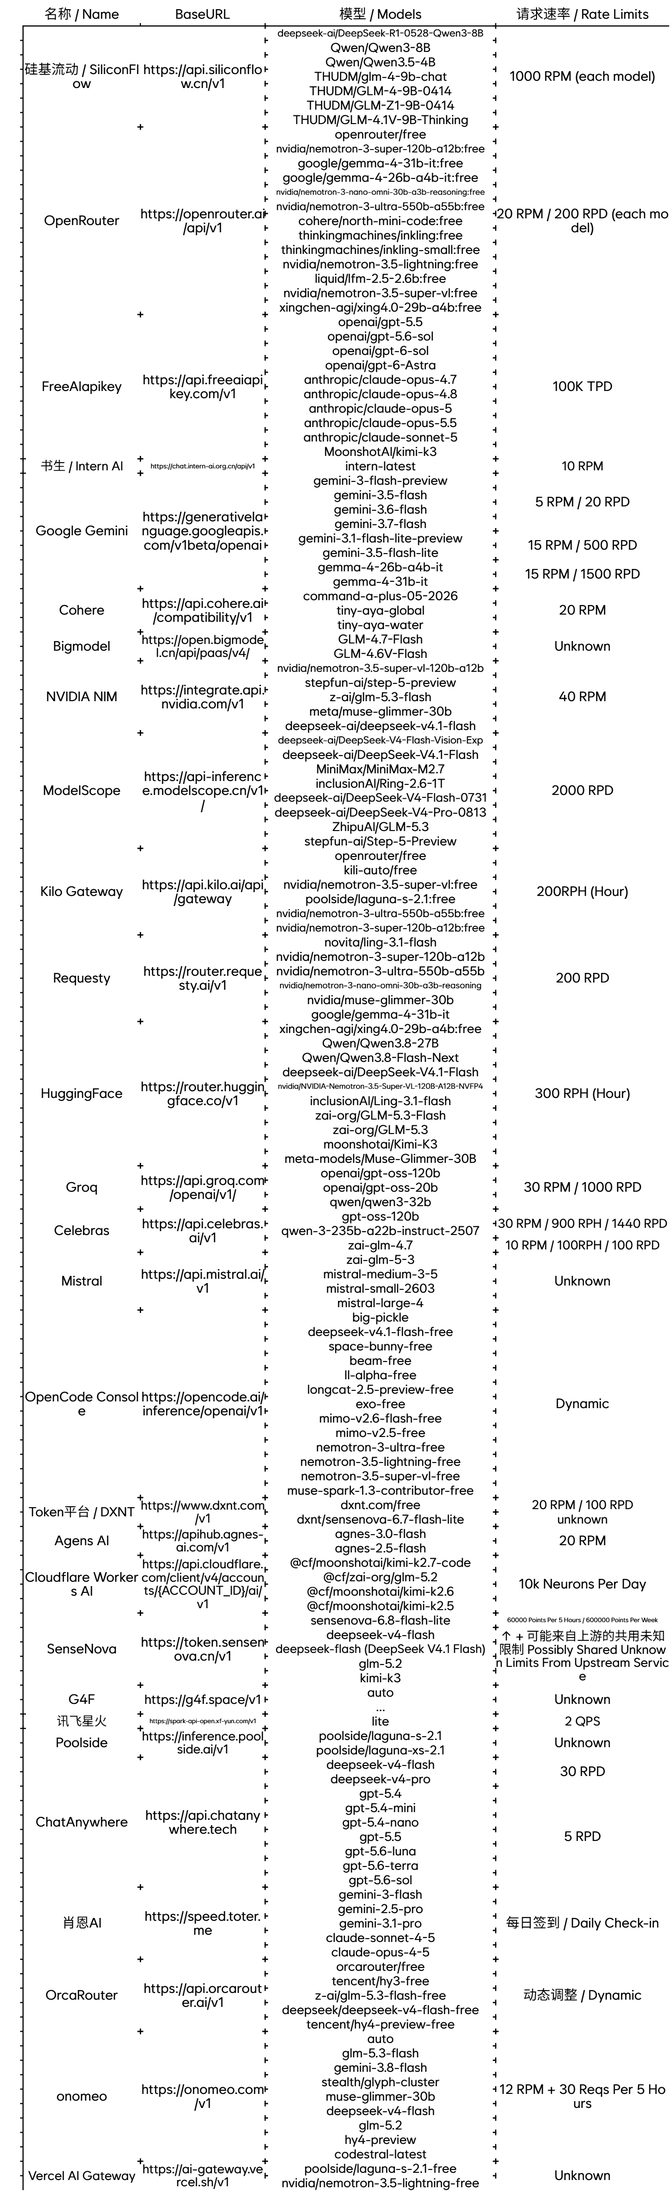
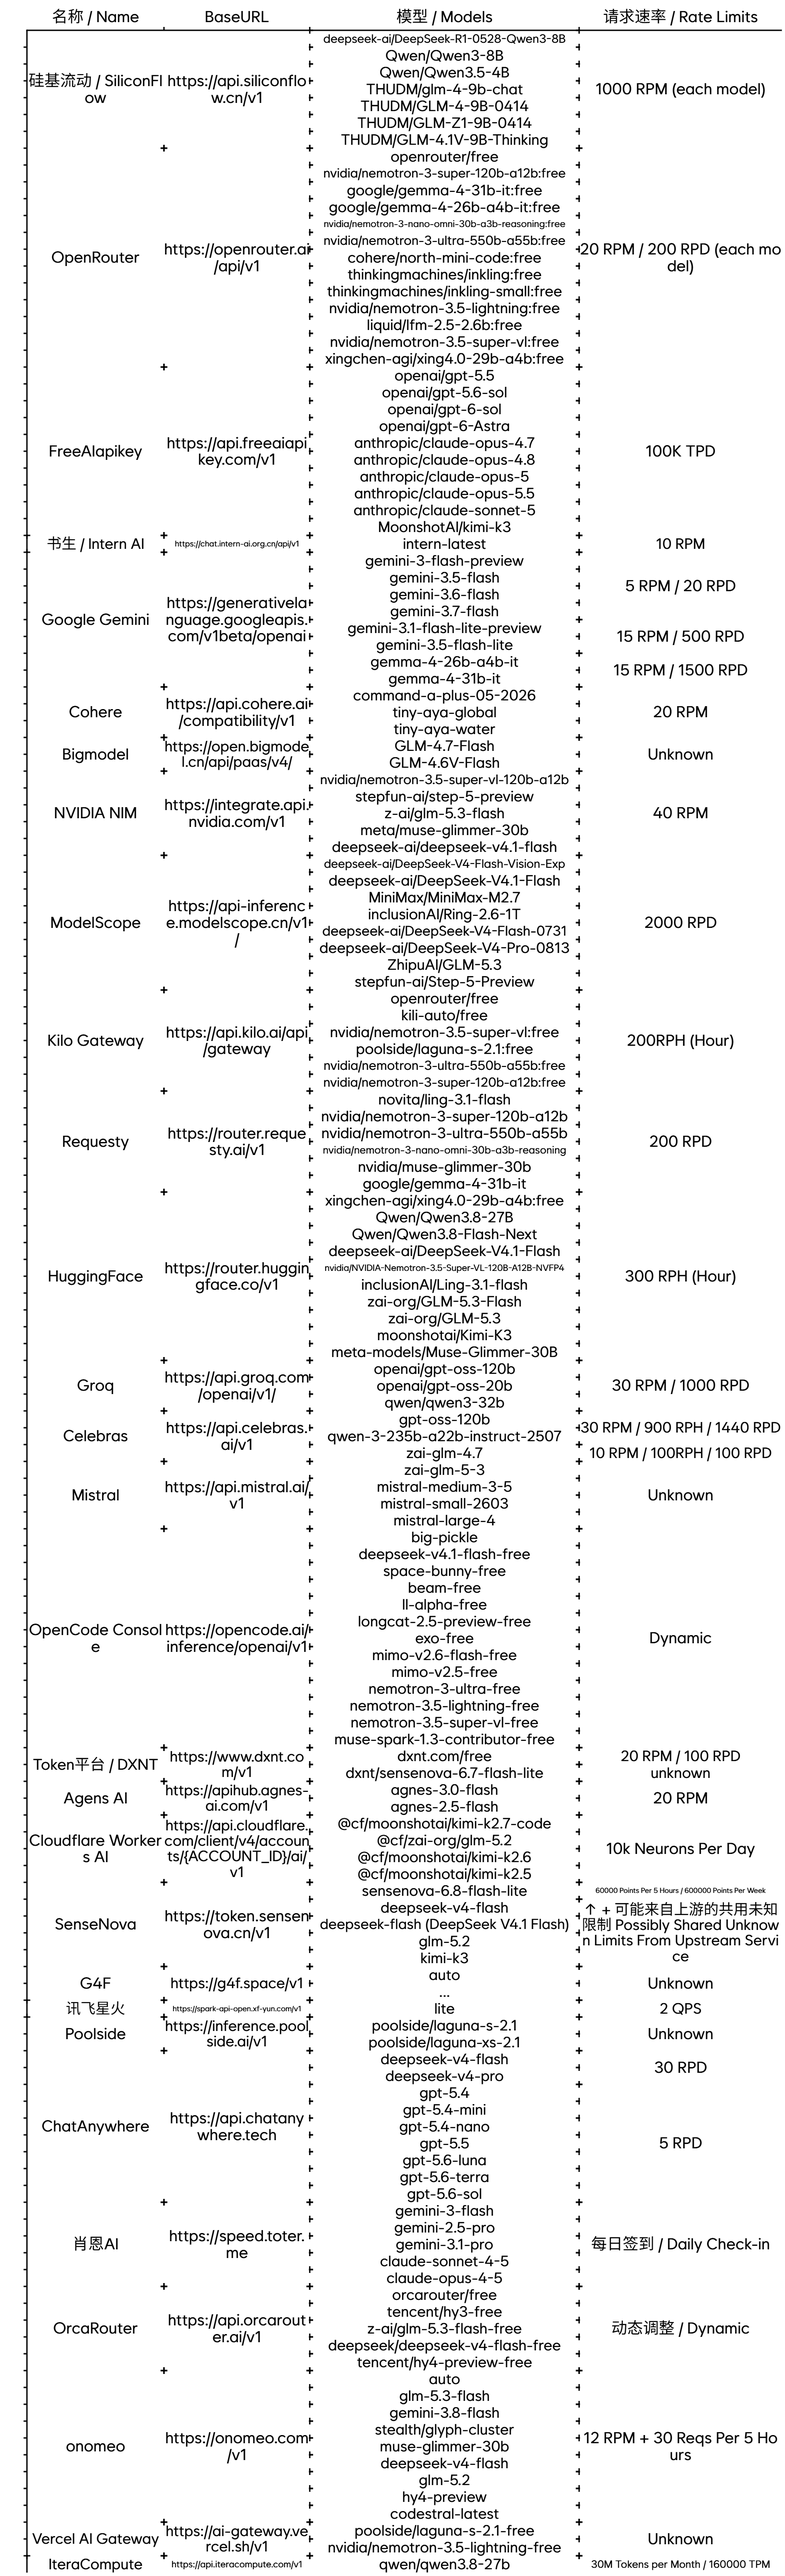
Merged #22

diff --git a/README.md b/README.md
@@ -377,6 +377,13 @@ This data of the table was generated by LLM, Rendered by [Taple](https://t.ftz.i
   - `poolside/laguna-s-2.1-free`
   - `nvidia/nemotron-3.5-lightning-free`
 
+### [IteraCompute](https://iteracompute.com/free/)
+
+- **API:** [https://api.iteracompute.com/v1](https://api.iteracompute.com/v1)
+- **Rate Limits:** 30M Tokens per Month / 160000 TPM
+- **Ava. Models:**
+  - `qwen/qwen3.8-27b`
+
 ## 其它 / Other
 
 ### 来源 / Source
